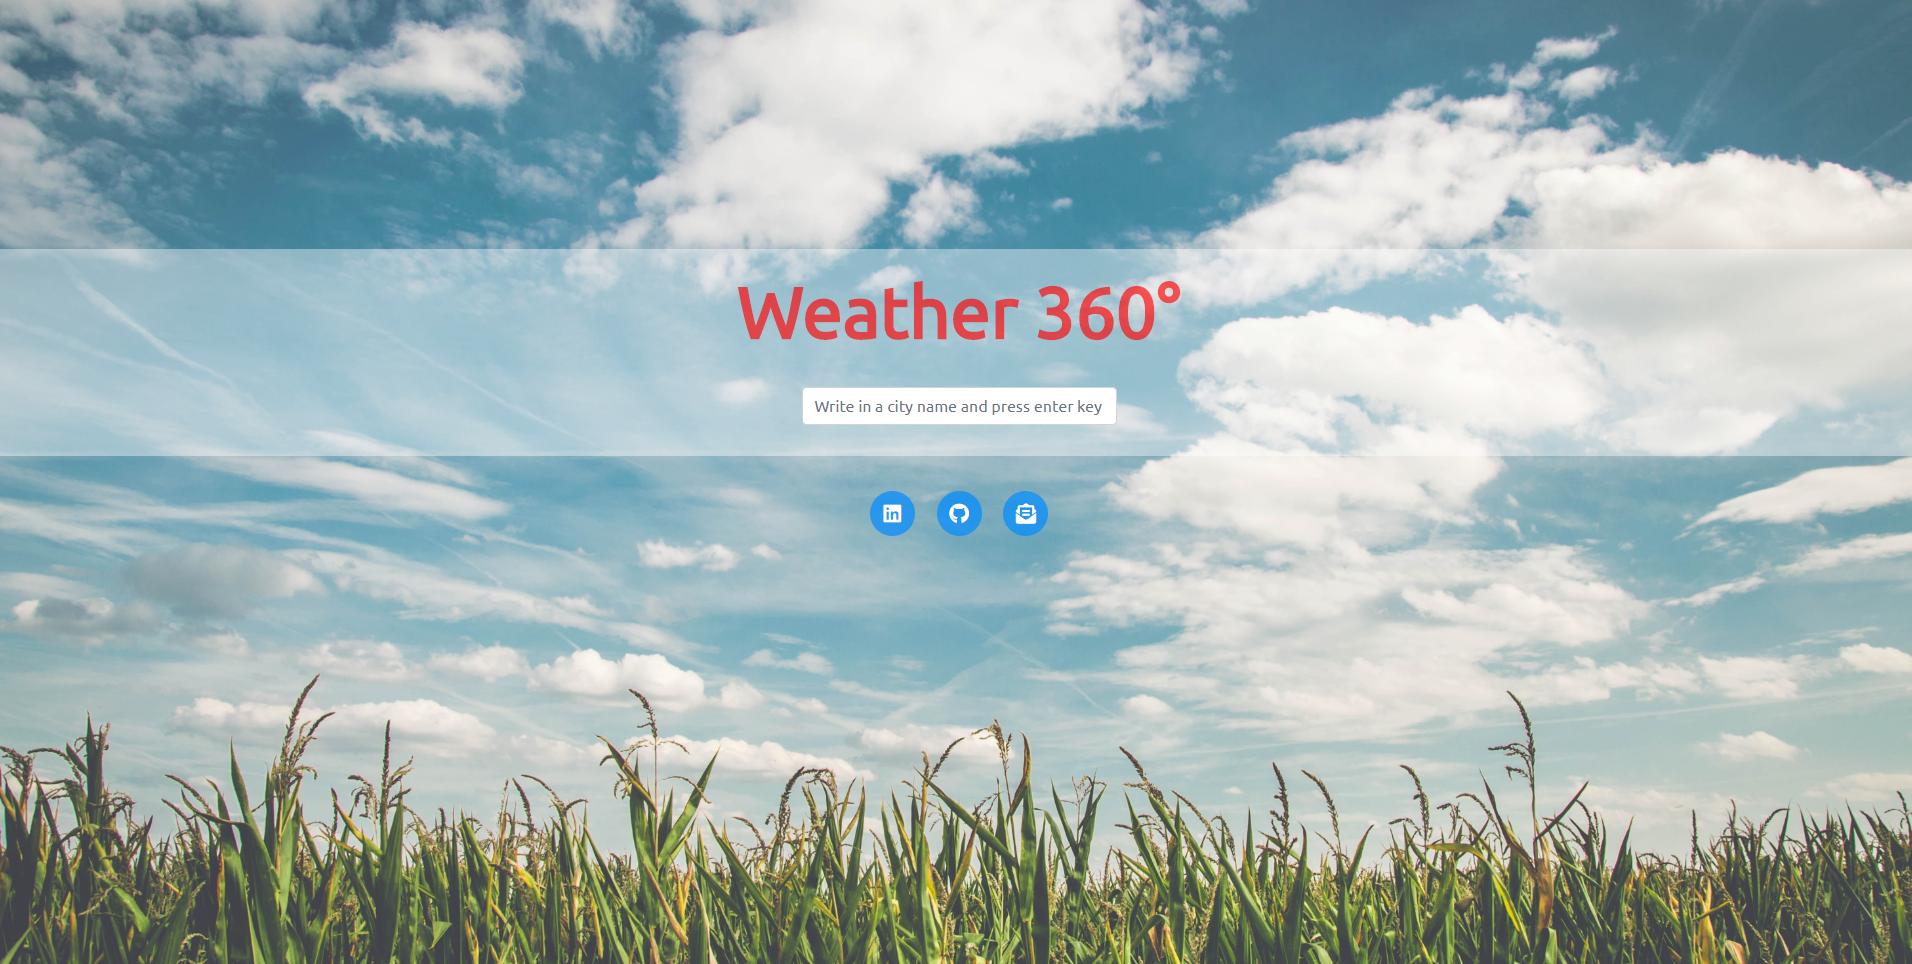
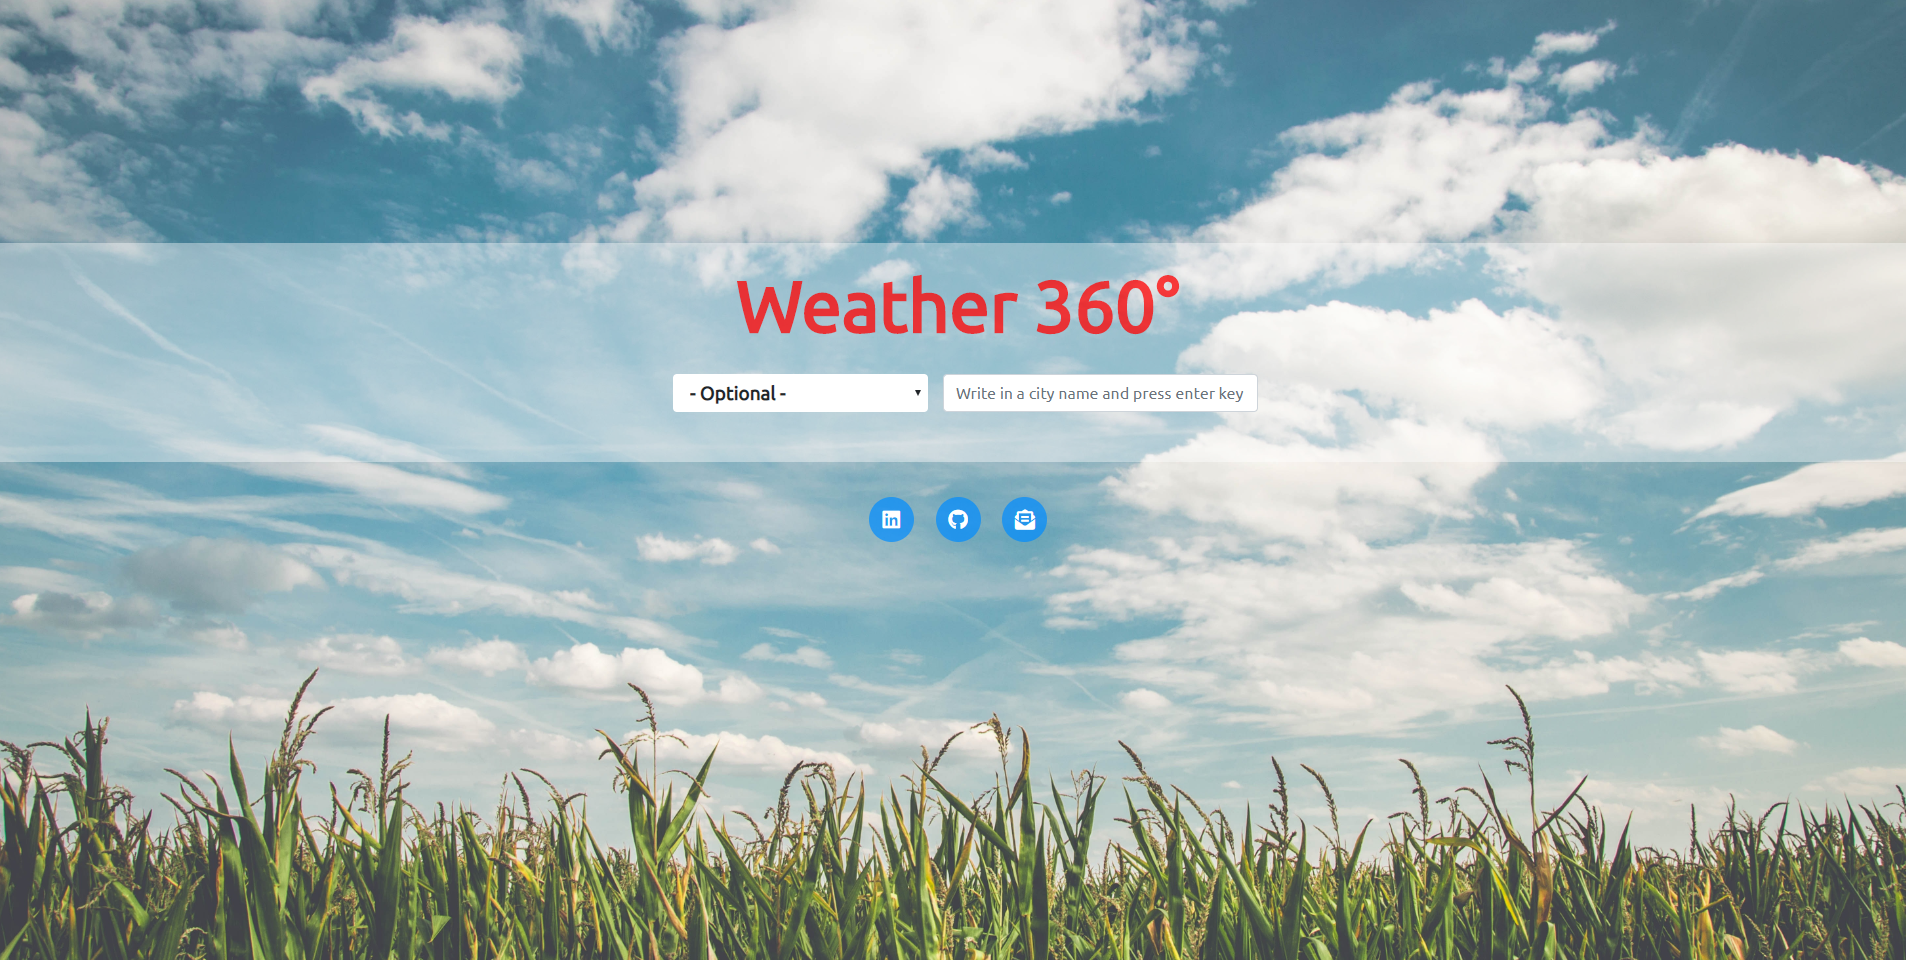
Expanded credit and features section, changed picture to represent new changes, search bar can handle spacebar inputs.

diff --git a/index.html b/index.html
@@ -22,7 +22,7 @@
                 <select id="selectCountry" class="btn">
                     <option>- Optional -</option>
                 </select>
-				<input class="form-control" id="search" type="text" placeholder="Write in a city name and press enter key" minlength="2" required aria-label="Search">
+				<input class="form-control" id="search" type="text" placeholder="Write in a city name and press enter key" minlength="3" required aria-label="Search">
 			</form>
 		</nav>
 		<div id="reset" class="reset heading">

diff --git a/assets/js/script.js b/assets/js/script.js
@@ -57,6 +57,7 @@ $("#reload").click(function () {
 function pullData() {
     let xhr = new XMLHttpRequest();
     let city = document.getElementById("search").value.toUpperCase();
+    if (city[2] == " "){ city = "Empty space"}
     let country = document.getElementById("selectCountry").value;
     let countryCode = country.slice(-2)
 
@@ -90,7 +91,6 @@ function pullData() {
         }
     };
 }
-
 // --- If the city name is NOT in database --- 
 function notInDatabase() {
     $("#current-weather").hide()

diff --git a/README.md b/README.md
@@ -161,10 +161,15 @@ positive and it will be a web-site which user will visit in future.
 ## Features
 ### Existing Features
 
-* Search button
+* Country selector
+  - Shows list of current countries and territories (at date 05/02/2020) and allows user to specify location of the city. 
+  For instance, if user types "Dublin", it will show "Dublin, US", but if user specify "Ireland, IE" and types Dublin, it will show Dublin, Ireland.
+  Country selection is optional and not required in case the user doesn't know the name of the country in which city is located.
+
+* Search input
 
   - Show the user instructions on how to search weather for a city. It is `required ` so user can not just press enter and search for empty space and requires 
-  minimum of 2 characters to be inputed.
+  minimum of 3 characters to be inputed.
 
 * City not found
 
@@ -181,6 +186,12 @@ positive and it will be a web-site which user will visit in future.
 
     - This button is used to toggle between google map showing the location of the searched city and additional statistics about the weather in the searched city 
 
+* Loaders
+
+  - I have put loaders when data is being pulled from API's because during testing, I noticed that 
+  sometimes (less than 15% of the tries) it can take up to 10 seconds for data to be pulled. Users are 
+  accustomed to see loaders and will be able to understand that data is in process of being pulled.
+
 * Google map
 
   - Google maps API is used to show the exact location of the searched city in case user want to see it. User can go fullscreen mode and can use StreetView with Pegman.
@@ -192,20 +203,20 @@ positive and it will be a web-site which user will visit in future.
 
 * Social icons
 
-  - In the footer are three social icons with links, one leading to my GitHub page, one for my LinkedIN profile (both of them open in a new tab because of 
+  - In the footer are three social icons with links, one leading to my GitHub page, one for my LinkedIn profile (both of them open in a new tab because of 
   `target="_blank"` attribute) and last one opens a contact modal from which user can contact me.
 
 * Contact modal
 
-  - When user click on contact icon, it opens a new modal. User has to input all the requested information in order for e-mail to be sent. When the e-mail has been successfully
-  sent, the text in the submit button will go from red outline color and `submit` to blue background color with `Message sent! Closing....` text and modal will close itself after 2seconds using `setTimeout` function.
+  - When user click on contact icon, it opens a new modal. User has to input all the requested information in order for e-mail to be sent. When the e-mail has been submitted, 
+  the text in the submit button will go from red background color and `Submit` to yellow background color with `Submitting...` text and then if it was successfuly sent (status=200), it will go green background color and `E-mail submitted! Closing...` and modal will close itself after 2seconds using `setTimeout` function. 
+  If it was unsuccessful (status=404), it will turn gray background color with `Failed to submit. Refresh page` text.
 
 [Back to top](#summary)
 
 ### Future Features
-  - I would like to add graph showing user specific weather data for future days(eg. Temperature fluctuation over 7days).
-
-  - I would like to add an option to include name of the country because they are a lot of cities that have same name and it can be a nuisance.
+  - I would like to add graph showing weather data for different 
+  options (temperature, humidity, wind speed etc.) throughout next seven days using D3.js or similar. 
 
 [Back to top](#summary)
 
@@ -259,9 +270,12 @@ Needed in order to pull data from DarkSky API and bypass CORS issue.
 This site was was tested on multiple browsers (Google Chrome, Mozzila Firefox and Opera), multiple mobile devices (Samsung Galaxy, Huawei, Sony) and tablet device(Samsung Galaxy Tab) and it shown 
 responsivness and compatibility.
 
-Search bar will only search if user wrote something in it because of `required ` attribute. Furthermore, it will ask the user for a minimum of 2 characters because of the `minlength` attribute. 
+Search bar will only search if user wrote something in it because of `required ` attribute. Furthermore, it will ask the user for a minimum of 3 characters because of the `minlength` attribute. 
 In addition, if a user writes incorrect name of the city or city does not exist in the OpenWeather API database, it will show the user the city name that was searched with a text that it is not
  in database and ask him to try again.
+
+In case user types three or more times spacebar character in search input field and presses enter, 
+it will show him that "`Empty space` is not in our database" and instruct him to try again.
 
 All links will open in a new tab using `target="_blank"`. All links have been manually tested to ensure that they are pointing to the correct destination.
 
@@ -331,10 +345,12 @@ Further help with cloning can be found on this GitHub Help [page](https://help.g
 + Background photo used in this web-site was obtained from [Pexels](https://www.pexels.com/), a stock image library.
 
 ### Acknowledgement
-* I would like to thank my mentor for help during project.
-* Videos on [CodeInstitute](https://codeinstitute.net/).
+* I would like to thank my mentor for help during project and great ideas.
+* Videos on [CodeInstitute](https://codeinstitute.net/) about JSON.
 * Big thanks to [W3 Schools](https://www.w3schools.com/) for all the content and clarification of different methods.
+* Thanks to [OpenWeather API](https://openweathermap.org/api), [DarkSky API](https://darksky.net/dev) and [Google maps API](https://cloud.google.com/maps-platform).
 * Special thanks to [CORS anywhere](https://cors-anywhere.herokuapp.com/) for my problem with CORS.
+* Country list JSON file was found at [DataHub.io](https://datahub.io/core/country-list).
 
 #### This is for educational use.
 [Back to top](#summary)
